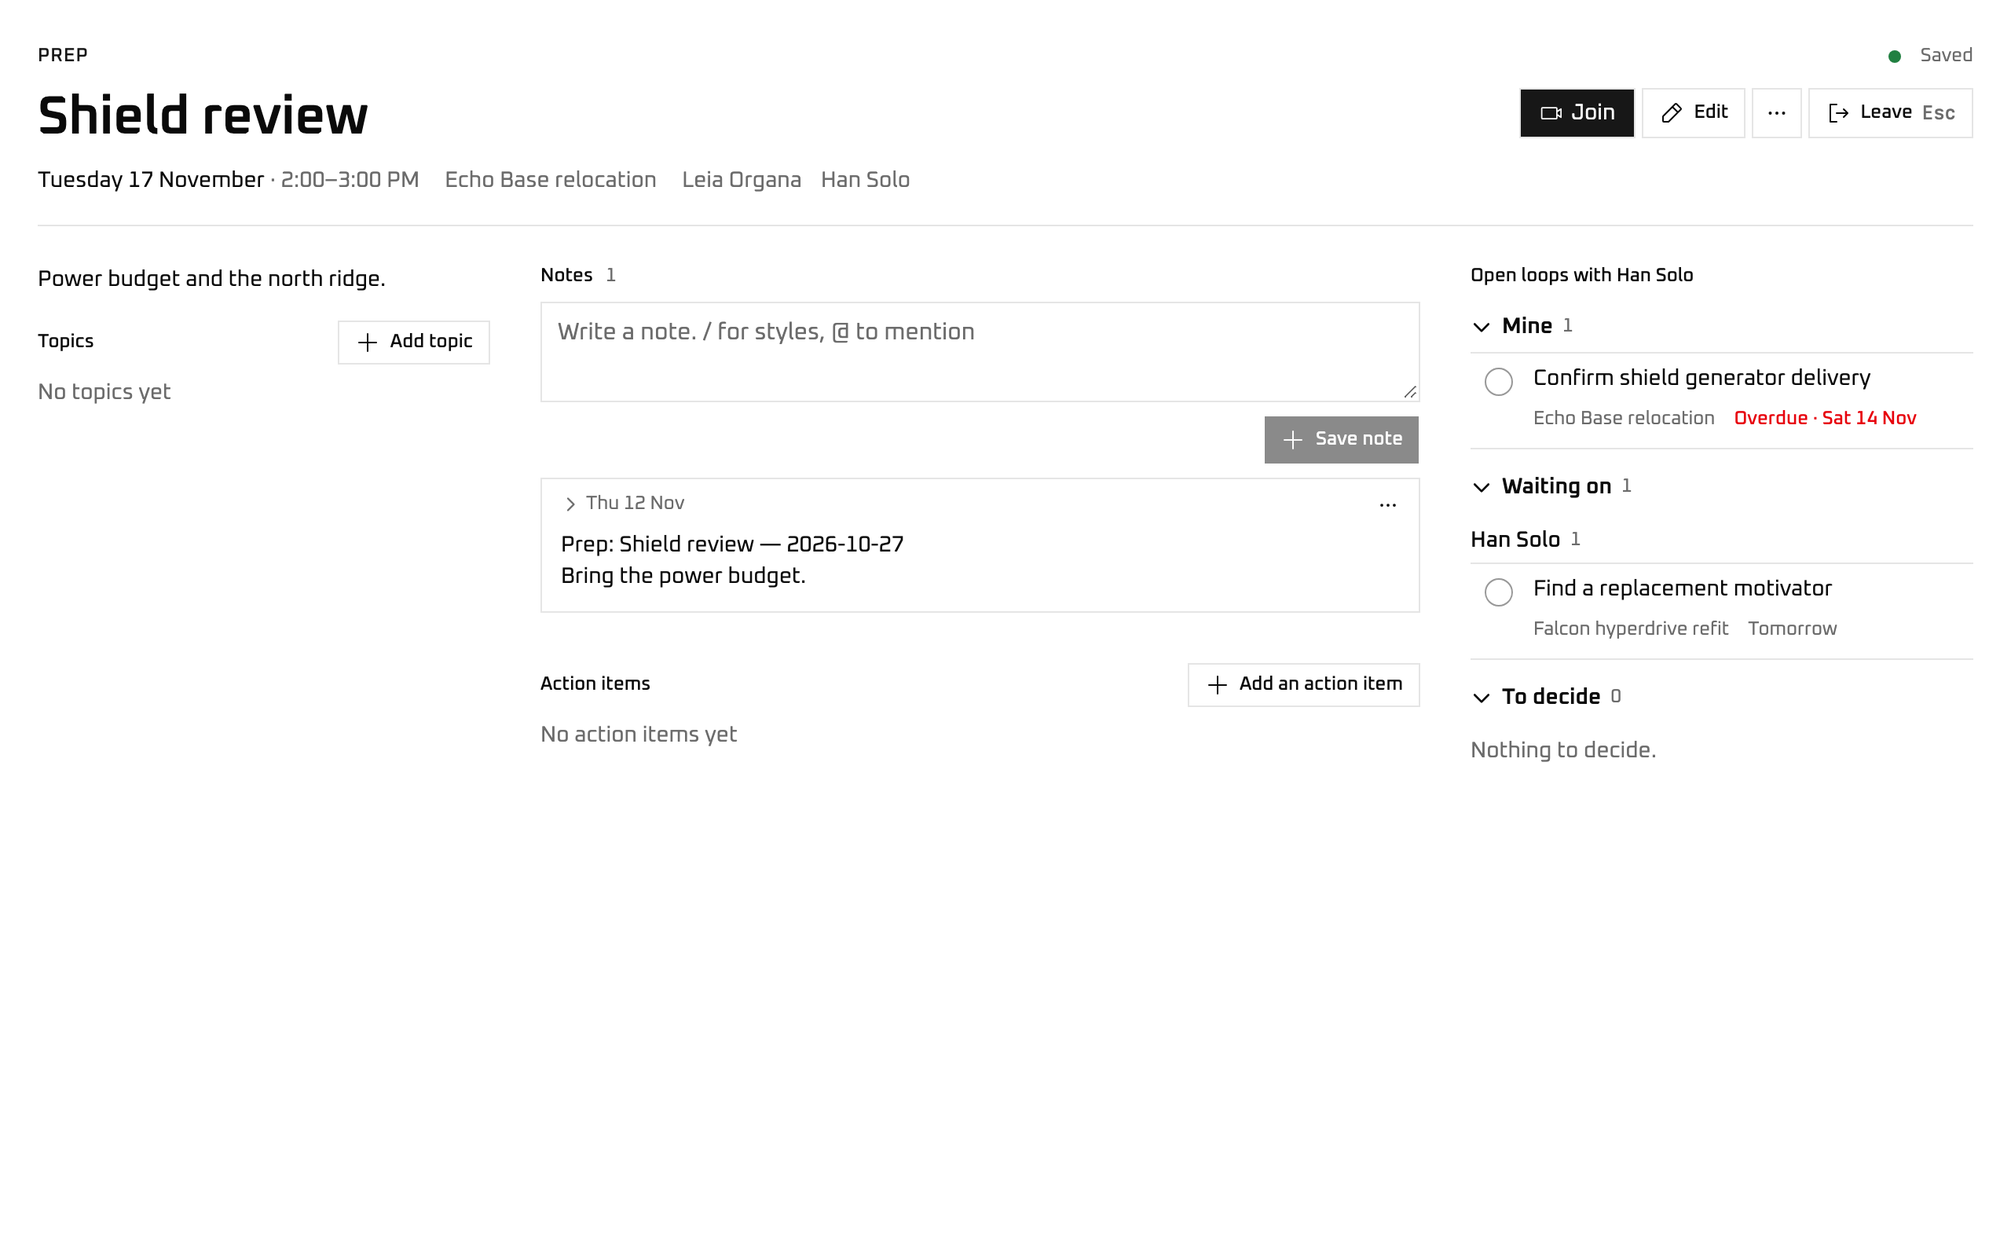
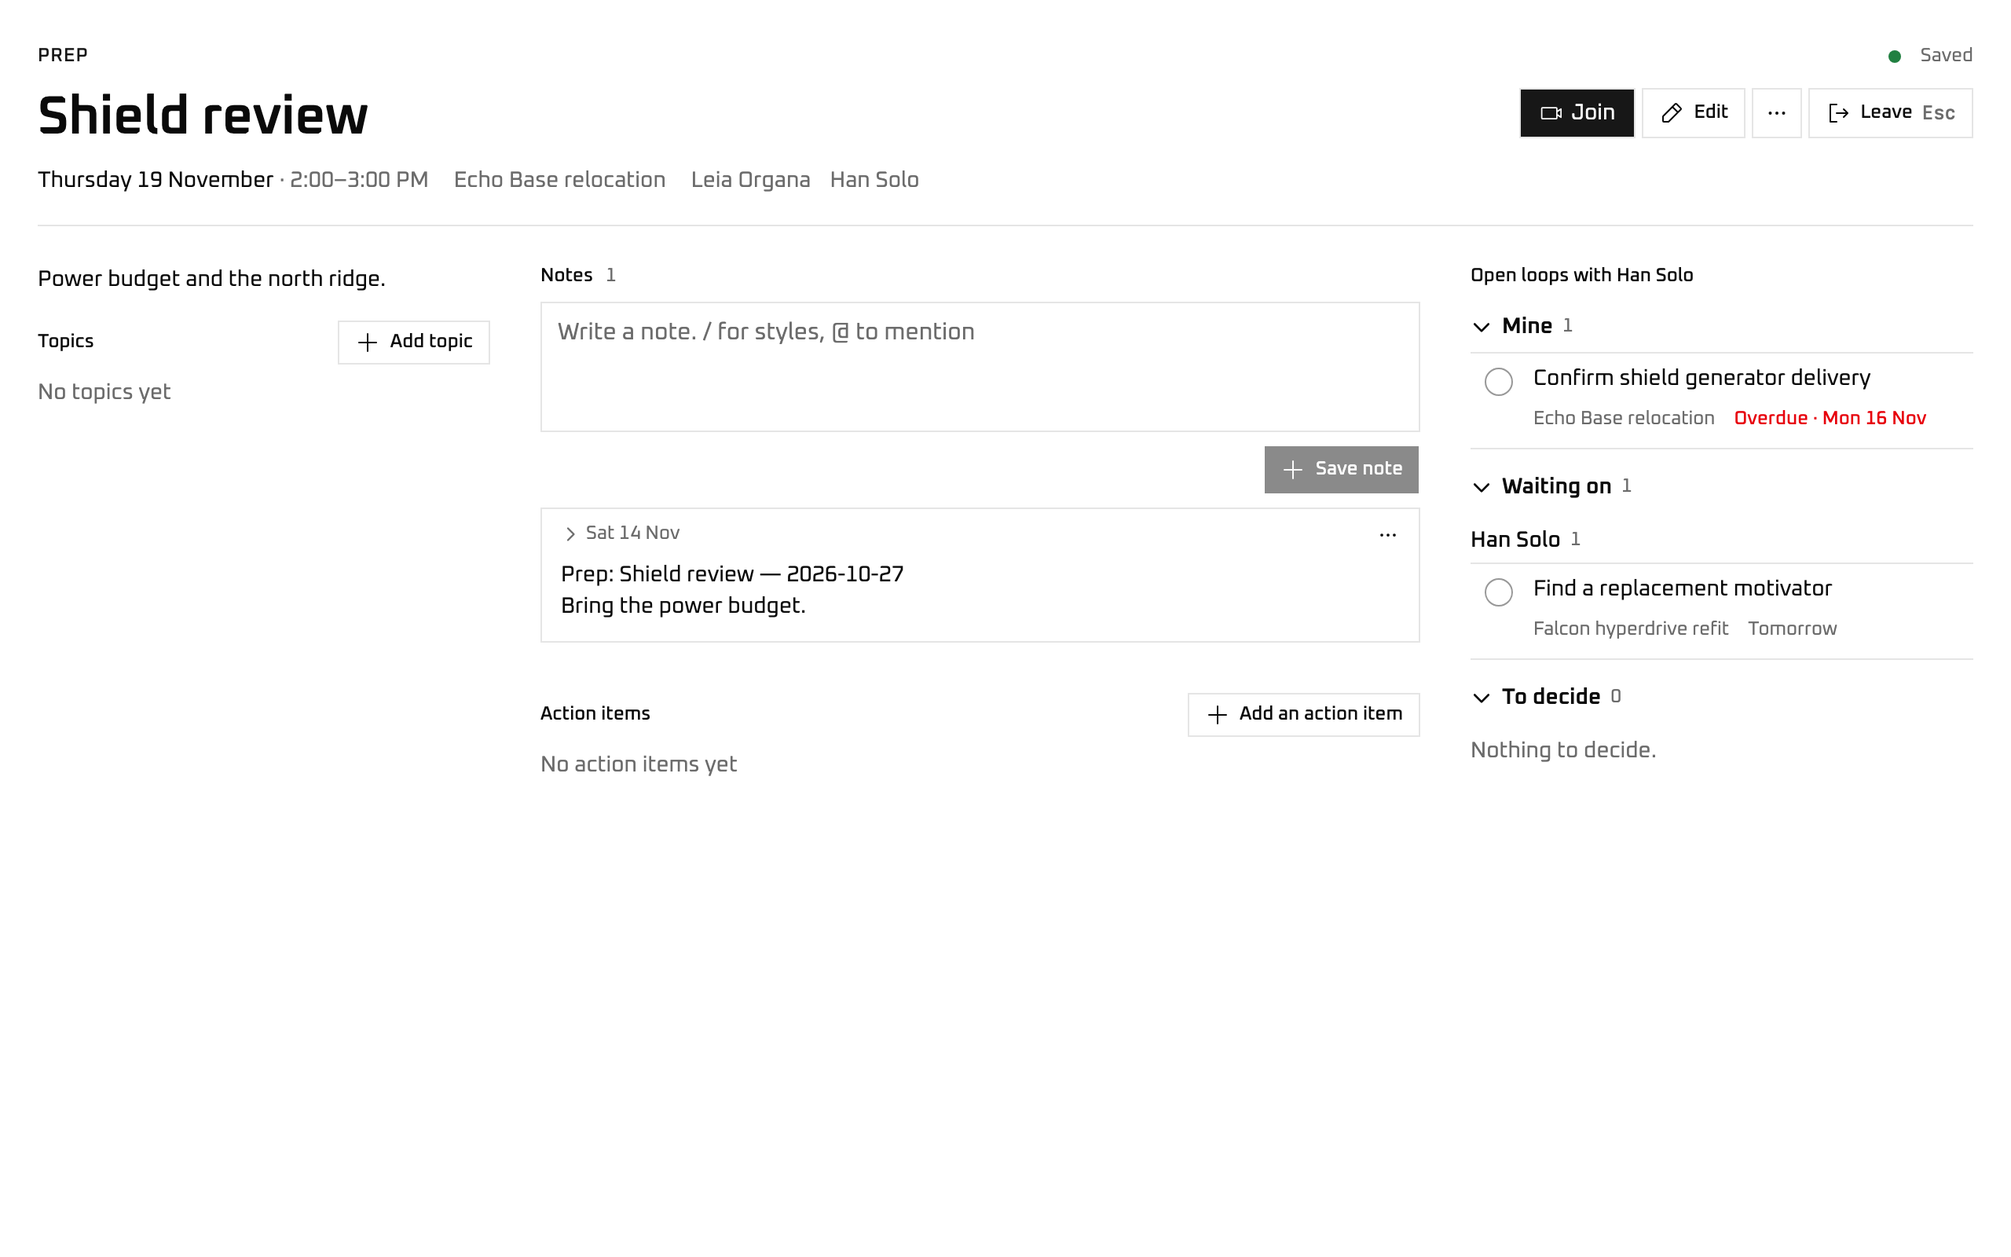
docs(notes): describe the formatted note editor
SPEC, PLAN, README, AGENTS, Help and the changelog say the editor shows
notes formatted and still stores Markdown. The stack lists Tiptap. The
meeting mode screenshot is retaken, since it shows the editor.

Claude-Session: https://claude.ai/code/session_01QW4EewXJfnCEsAsHH2kpw3

diff --git a/src/pages/HelpPage.tsx b/src/pages/HelpPage.tsx
@@ -225,10 +225,12 @@ export function HelpPage({ section }: { section?: string }) {
 
       <Section id="writing">
         <p className="text-sm">
-          Notes, descriptions and task details are Markdown. Type <Key>/</Key>{' '}
-          at the start of a line for a menu of blocks, or use the keys below.
-          Lists carry on when you press Enter; Enter on an empty item ends the
-          list.
+          Notes, descriptions and task details show formatted as you write them,
+          and are kept as Markdown. Type <Key>/</Key> at the start of a line for
+          a menu of blocks, use the keys below, or type the Markdown (
+          <code>#</code>, <code>-</code>, <code>- [ ]</code>,{' '}
+          <code>**bold**</code>) and it turns into formatting. Lists carry on
+          when you press Enter; Enter on an empty item ends the list.
         </p>
         <p className="text-sm">
           The same menu makes things from the line you are on, read the way the

diff --git a/docs/SPEC.md b/docs/SPEC.md
@@ -245,7 +245,7 @@ The common path never opens a modal: Enter adds, a checkbox closes, click drills
 
 **Close / reopen.** Clicking the circle toggles `status`, sets or clears `completedAt`, logs activity, and bumps the project's `updatedAt`. No confirmation.
 
-**Task panel** (slide-over from the right, 460px, full width on mobile): title, project, status, priority, due, assignee, tags (comma separated), details (markdown textarea with @mention autocomplete), a **Notes** section (its running notes; see [Task notes](#task-notes)), links editor, created/closed timestamps. Footer: Summarize, Delete (confirm), Cancel, Save. Moving a task between projects logs an entry in both projects' activity. The panel renders once on open and is not re-rendered by data updates, so in-progress edits survive background sync.
+**Task panel** (slide-over from the right, 460px, full width on mobile): title, project, status, priority, due, assignee, tags (comma separated), details (the note editor, with @mention autocomplete), a **Notes** section (its running notes; see [Task notes](#task-notes)), links editor, created/closed timestamps. Footer: Summarize, Delete (confirm), Cancel, Save. Moving a task between projects logs an entry in both projects' activity. The panel renders once on open and is not re-rendered by data updates, so in-progress edits survive background sync.
 
 **New task panel** (⌘K → New task, or `n` where there is no capture line): title, project, priority (Medium, or Settings → Capture → New task priority; the quick adds and MCP's `add_task` use it too), due (a week from today, or Settings → Capture → New tasks are due; the capture line, the quick adds and MCP's `add_task` use it too when no date is given), assignee (the default assignee: you when Settings → People → Assign new tasks to me is on, else nobody), details.
 
@@ -259,7 +259,7 @@ The common path never opens a modal: Enter adds, a checkbox closes, click drills
 
 **Task order (retired).** Tasks used to be dragged into order on the project page. v2 has no manual order: Today's lanes and the rooms sort by due date, then the stored `order`. The `reorderTasks` op still reduces, so an old client's queued op applies.
 
-**Notes composer.** Textarea with @mention popup; ⌘/Ctrl+Enter adds. Enter inside a list line continues the list (`- `, `* `, `1. `, `- [ ] `; numbers increment; a checked box continues as unchecked); Enter on an empty list marker removes it. The `/` menu lists the space's **note templates** after its commands (all on a bare `/`; by a word of the name, `/retro`; every one for `/template`, and `/template retro` narrows); choosing one inserts its body in place of an empty line, or from the next line, with mentions as names. Every note composer offers them: the New note panel, the inline composers (project, task, meeting) and a note's Edit.
+**Notes composer.** A formatted editor (Tiptap on ProseMirror, #376): headings, lists, checklists with tickable boxes, bold, italic, strike, inline code, links, quotes, dividers, code blocks and mentions show as they will render, with no Markdown on screen, and there is no raw Markdown view. Markdown typed as you go turns into formatting (`# `, `- `, `1. `, `- [ ] `, `> `, `---`, ```` ``` ````, `**bold**`, `_italic_`, `` `code` ``, `~~strike~~`, `[label](url)`). What is stored is the same Markdown as before (`shared/note-doc.ts`: one line of Markdown is one block of the editor, and back), so export and import do not change, and opening a note never rewrites it: only an edit hands back new text. `@` opens the mention popup and puts in a name chip; ⌘/Ctrl+Enter adds. Enter in a list item continues the list (numbers count up; a checked box continues unchecked); Enter on an empty item ends the list; Shift+Enter starts a plain line; Tab in a list stays put (lists do not nest). Undo and redo (⌘Z, ⇧⌘Z) cover typing and every command. Rich text pasted from elsewhere comes in as the same Markdown subset; Markdown pasted as text is read as Markdown. A screen reader hears a multi-line text box with its label. The `/` menu lists the space's **note templates** after its commands (all on a bare `/`; by a word of the name, `/retro`; every one for `/template`, and `/template retro` narrows); choosing one inserts its body in place of an empty line, or from the next line, with mentions as names. Every note composer offers them: the New note panel, the inline composers (project, task, meeting) and a note's Edit.
 
 **Note templates.** A `Template` with a `body` (Markdown, mentions as tokens) is a note template; without one it is a project template, so older data reads unchanged. Settings → Templates lists **Project templates** and **Note templates**, each with its own New button; a note template's panel is a name and the note composer. A note's footer has **Save as template**, which opens a new note template preset with the note's first line as the name and its body. A template keeps its kind: the reducer refuses tasks or tags on a note template, a body on a project template, and a note template in `createProject`; the project form offers only project templates.
 
@@ -279,7 +279,7 @@ The common path never opens a modal: Enter adds, a checkbox closes, click drills
 | Tab / Enter       | Accept a mention suggestion                                   |
 | ⌘/Ctrl+Enter      | Add note from composer                                        |
 
-Single-letter shortcuts are suppressed while an input, textarea, or select has focus, or while a panel or the palette is open.
+Single-letter shortcuts are suppressed while an input, textarea, select or the note editor has focus, or while a panel or the palette is open.
 
 **The capture line** (#330, `shared/capture.ts`): one input at the top of Today and of each room (preset to the room). A plain line is a note; `[ ]`, `todo` or a date makes a task; a leading `?`, `decide:` or a closing `?` something to decide; `waiting on @Name` a task blocked on that person. `#word` files it under the one open project whose name, letters and digits only, starts with the word (an ambiguous or unknown one stays as typed, unless it is created from the menu); `@Name` mentions someone and, on a task or a decision, assigns it to them. Dates are `parseDate()`'s; sat, sun, mon, wed, tod and tom count only after due, by or on. Chips under the line show the kind (a button: it or Tab cycles note, task, to decide, waiting on), the project, the people with their role ("for Han", "waiting on Chewbacca"), the due date and Scratch. `@` and `#` open a menu of people or projects (↑ ↓, Enter or Tab, a tap); a name nobody has offers "Add “…” to People", and a `#word` of two or more characters that no project, archived or not, is called offers "Create project “…”" (`newProjectFor()`): the word as its name, in the default org, created at once and the line filed under it. Enter saves through one `batch`, and the toast says where it went with Undo (which deletes it). Esc closes the menu, then clears the line. Shift+Enter or the expand button opens the new-note panel with the text and its project.
 
@@ -628,7 +628,7 @@ Dark mode follows the OS by default and can be forced by `data-theme` on the roo
 
 Keep the product exactly as specified above and change only the plumbing.
 
-**Stack.** React + TypeScript + Vite, Tailwind v4, shadcn/Base UI for panels, selects, and the command palette (the ⌘K palette maps cleanly onto `cmdk`). Keep it a PWA-capable SPA so it still works on the phone.
+**Stack.** React + TypeScript + Vite, Tailwind v4, shadcn/Base UI for panels, selects, and the command palette (the ⌘K palette maps cleanly onto `cmdk`), Tiptap on ProseMirror for the note editor. Keep it a PWA-capable SPA so it still works on the phone.
 
 ### Modules
 
@@ -640,7 +640,7 @@ Keep the product exactly as specified above and change only the plumbing.
 | `markdown/`   | the line-based renderer and the `@{id}` ↔ `@Name` conversions; unit-test against the table in Mentions and markdown                                                                                                                      |
 | `summaries/`  | context builders per item type (pure functions over state) and a server route that calls the Messages API with the prompt above and streams back                                                                                         |
 | `views/`      | Today, Scratch, All, ProjectRoom, PersonRoom, MeetingMode, Settings                                                                                                                                                                      |
-| `components/` | TaskRow, CaptureLine, NoteRow, NoteComposer (mentions + list continuation), MeetingRow, Milestones, SidePanel, Palette, Toast                                                                                                             |
+| `components/` | TaskRow, CaptureLine, NoteRow, NoteComposer (the Tiptap note editor: mentions, `/` menu, list continuation), MeetingRow, Milestones, SidePanel, Palette, Toast                                                                                                             |
 
 **Order of work** (the rebuild's, before v2). 1) model + store + local adapter + JSON import so existing data loads on day one; 2) Projects, ProjectDetail, Tasks with quick-add and close; 3) Notes and mentions; 4) Meetings with prep/debrief, and milestones; 5) Focus, People, Search; 6) remote adapter and summaries; 7) polish items from Known gaps.
 

diff --git a/docs/PLAN.md b/docs/PLAN.md
@@ -26,7 +26,7 @@ data is _kept_ (holocron wipes daily), and nobody but the owner can reach it
 | Data changes  | Every change is a typed op through a shared `reduce()` (`shared/reducer.ts`), run optimistically on the client and authoritatively in the DO, exactly like holocron. Compound ops (delete project cascade, move task, toggle task, reorder, activity append) live there so two devices never clobber each other with whole-document last-writer-wins.                                                                                                                                      |
 | Persistence   | DO SQLite: `docs(space, col, id, json, updated_at)` + `spaces(…, seq)` + `meta`. Whole document per row. Snapshot on connect; ops broadcast with a per-space sequence number; clients resync on a gap. A nightly alarm writes each space's JSON export to R2 (30 kept per space).                                                                                                                                                                                                          |
 | Client state  | `useDatapad()` hook: `confirmed` snapshot + `pending` ops, rendered state = `pending.reduce(reduce, confirmed)`. Memoized selectors (open counts, orgs, me, Focus buckets). Last snapshot cached in IndexedDB for instant first paint.                                                                                                                                                                                                                                                     |
-| Stack         | React 19 · TypeScript · Vite · Tailwind v4 (CSS-first) · stock shadcn `base-lyra` on Base UI (CLI-managed `src/components/ui`) · Phosphor icons · `cmdk` for ⌘K · zod · Biome · **bun** · `@cloudflare/vite-plugin` · Vitest in workerd · Playwright + axe.                                                                                                                                                                                                                                |
+| Stack         | React 19 · TypeScript · Vite · Tailwind v4 (CSS-first) · stock shadcn `base-lyra` on Base UI (CLI-managed `src/components/ui`) · Phosphor icons · `cmdk` for ⌘K · Tiptap (on ProseMirror) for the note editor · zod · Biome · **bun** · `@cloudflare/vite-plugin` · Vitest in workerd · Playwright + axe.                                                                                                                                                                                                                                |
 | Look and feel | Holocron's: Oxanium Variable for UI and headings, JetBrains Mono for code, square Lyra radii, themes System / Light / Dark only (holocron's light set and a neutral dark that mirrors it; owner's calls 2026-10-23 and 2026-10-24), an account menu with Settings, Theme, Motion and Sign out.                                                                                                                                                                                             |
 | Motion        | Holocron's rules verbatim: no animation libraries; View Transitions for route and theme changes, `@starting-style` entrances, FLIP for reorders and section moves, WAAPI exits, `linear()` springs; tokens not literals; `opacity`/`transform` only; `html[data-motion="off"]` and `prefers-reduced-motion` gate everything.                                                                                                                                                               |
 | Summaries     | In the browser on a local WebLLM model, the same model and configuration holocron uses for retro analysis: `@mlc-ai/web-llm` in a Web Worker, Qwen3 1.7B by default (4B and 8B selectable), `temperature` 0.3, `max_tokens` 900, thinking off, streamed. Consent step before the weights download from Hugging Face; hidden behind an "unsupported" state without WebGPU. Context builders are pure functions in `shared/summaries.ts`. Nothing leaves the device and there is no API key. |
@@ -192,7 +192,9 @@ Beyond the spec:
   with multi-select and bulk close / move / assign / delete; undo on close
   and delete; a task's
   source note shown in its panel; "Mine" as a one-key filter.
-- **Notes.** Composer that feels like a text editor: `@` mentions, a `/`
+- **Notes.** Composer that is a text editor: formatted as you type (Tiptap
+  on ProseMirror with our own Markdown serializer, #376; no raw Markdown
+  view, the stored text unchanged), `@` mentions as name chips, a `/`
   command menu for formatting (`/h1` `/h2` `/h3`, `/bullet`, `/numbered`,
   `/checklist`, `/code`, `/quote`, `/divider`, `/date`, `/mention`, and the
   create commands `/task`, `/decide`, `/waiting`, `/note`, `/meeting`,

diff --git a/AGENTS.md b/AGENTS.md
@@ -59,9 +59,11 @@ first is `main`). Data is **kept**: nothing is wiped. `docs/SPEC.md` is the prod
   `spaces.ts` (space names and order, and the pure halves of moving a
   project between spaces), `shortcuts.ts` (every keyboard shortcut and
   the rule that keeps single letters out of inputs and overlays; Help
-  and the `?` sheet list it), `composer.ts` (the note composer as pure
-  functions: the `/` commands, the formatting keys, list continuation;
-  Help's tables come from it), `mentions.ts` (`@{id}` tokens ↔ `@Name`),
+  and the `?` sheet list it), `composer.ts` (the note composer's commands as pure
+  functions: the `/` commands and what each does (`planCommand`), the
+  formatting keys; Help's tables come from it), `note-doc.ts` (the note
+  editor's document as JSON and the Markdown both ways, one line one
+  block, so a note round-trips unchanged), `mentions.ts` (`@{id}` tokens ↔ `@Name`),
   `notes.ts`, `tasks.ts`, `projects.ts` (filters, sorts and selection),
   `people.ts` and `orgs.ts` (records by name, inline add), `lists.ts`
   (what is left of lists: the helpers the migration and MCP's retired
@@ -161,7 +163,7 @@ React 19 + TypeScript + Vite · Tailwind CSS v4 (CSS-first, `src/index.css`)
 · [Beskar](https://github.com/jbouder/beskar), a shadcn `base-lyra` registry on
 Base UI (`src/components/ui`, CLI-managed, do not hand-edit; add or update one
 with `bunx shadcn@latest add @beskar/<name> --overwrite`, and see the
-`beskar-ui` skill in `.claude/skills`) · Phosphor icons · `cmdk` · zod · Biome · Cloudflare Workers +
+`beskar-ui` skill in `.claude/skills`) · Phosphor icons · `cmdk` · zod · Tiptap v3 on ProseMirror for the note editor (`src/components/note-editor/`, its own Markdown serializer in `shared/note-doc.ts`; injected CSS off, styles in `src/index.css`) · Biome · Cloudflare Workers +
 Durable Objects via `@cloudflare/vite-plugin` · **bun** for installs (npm's
 resolver fails on Vitest 4.1 peers; one version, `packageManager` in
 `package.json`, which every workflow uses) · WebLLM for summaries (in-browser, `src/lib/summary-*.ts`; its downloads

diff --git a/CHANGELOG.md b/CHANGELOG.md
@@ -52,6 +52,14 @@ changes the format says so here under **Export format**.
 
 ### Changed
 
+- The note editor shows a note formatted as you write it: headings,
+  lists, checklists you can tick, bold, italic, code, links, quotes,
+  dividers, code blocks and mentions as name chips, with no Markdown on
+  screen. Markdown typed as you go (`# `, `- `, `- [ ] `, `**bold**`)
+  turns into formatting. The `/` and `@` menus, the formatting keys,
+  drafts, rich paste and ⌘Enter work as before, and notes are stored as
+  the same Markdown, so exports do not change (#376).
+
 - New tasks are due a week from today by default. Pick No date in
   Settings → Capture to go back to undated tasks.
 

diff --git a/README.md b/README.md
@@ -79,7 +79,8 @@ over WebSockets, and backs itself up to R2 every night.
   (type `fri`, `+3d`, `10/31`), assignee, tags, links, Markdown details,
   dated running notes, blocked on someone, or to decide. Each opens in a
   side panel.
-- **Notes.** Markdown with three heading levels, lists, clickable
+- **Notes.** Formatted as you write, with no Markdown on screen, and
+  stored as plain Markdown: three heading levels, lists, clickable
   checklists, code, quotes and links; `@` mentions of people; a `/`
   command menu and formatting keys in the composer, whose `/task`,
   `/meeting`, `/person` and other create commands turn the line you are
